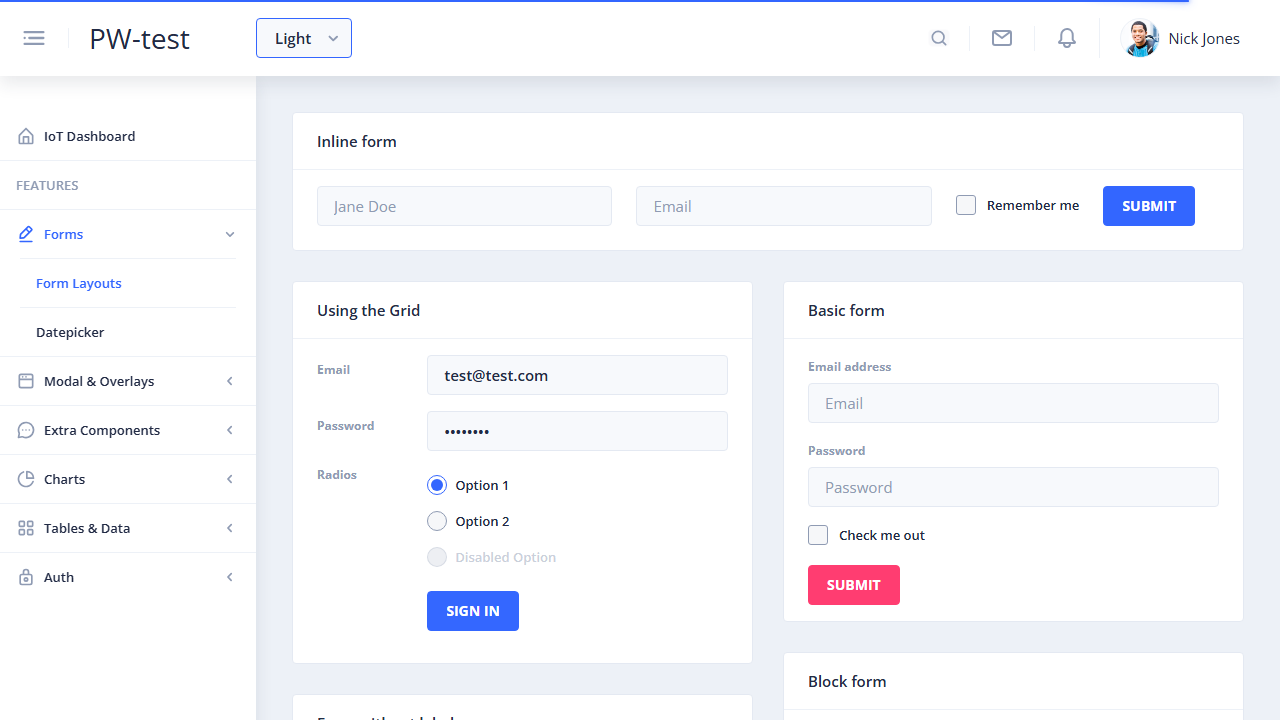
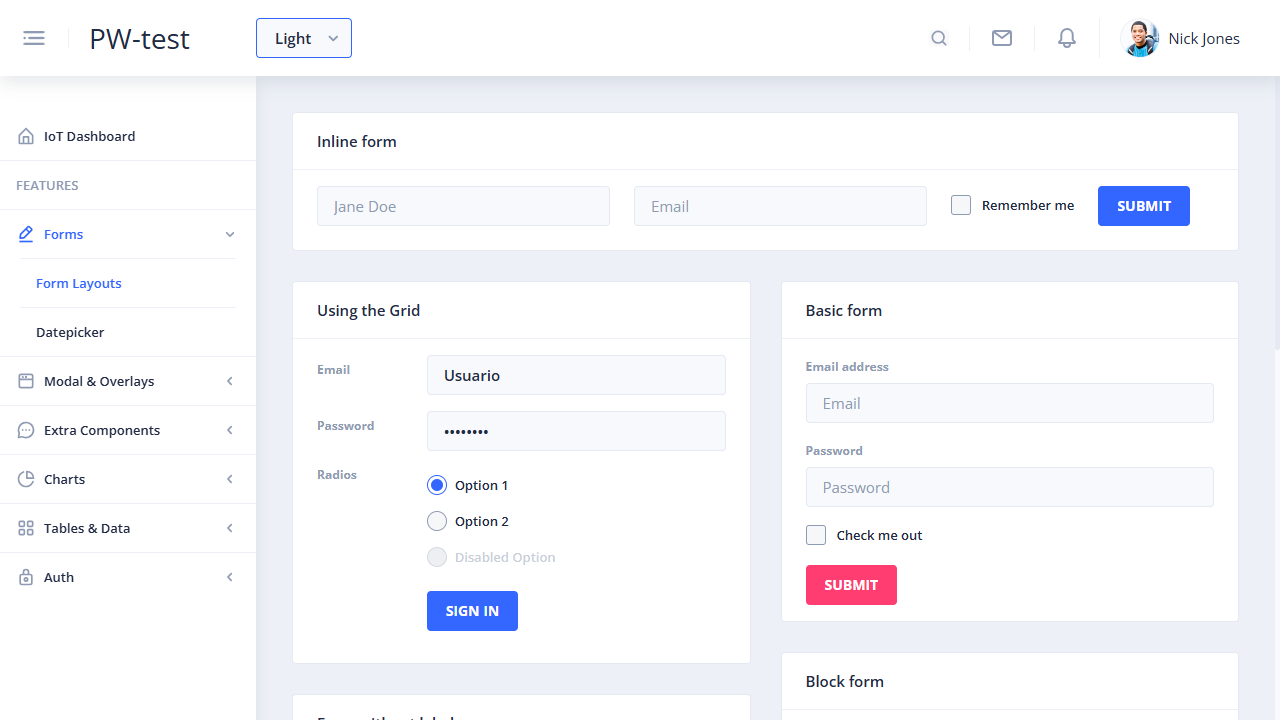
66. Evironment Variables

diff --git a/playwright.config.ts b/playwright.config.ts
@@ -1,17 +1,20 @@
 import { defineConfig, devices } from '@playwright/test';
+import type { TestOptions } from './test-options'
 
 /**
  * Read environment variables from file.
  * https://github.com/motdotla/dotenv
- */
+//  */
 // import dotenv from 'dotenv';
 // import path from 'path';
 // dotenv.config({ path: path.resolve(__dirname, '.env') });
+require('dotenv').config();
+
 
 /**
  * See https://playwright.dev/docs/test-configuration.
  */
-export default defineConfig({
+export default defineConfig<TestOptions>({
   // timeout: 10000, // 10 seconds
   // globalTimeout: 60000, // 60 seconds
 
@@ -35,6 +38,11 @@ export default defineConfig({
   use: {
     /* Base URL to use in actions like `await page.goto('')`. */
     // baseURL: 'http://localhost:3000',
+    // baseURL: 'http://localhost:4200/',   
+    globalsQaURL: 'https://www.globalsqa.com/demo-site/draganddrop/',
+    baseURL: process.env.DEV === '1' ? 'http://localhost:4200/'
+      : process.env.STAGING === '1' ? 'http://localhost:4202/'
+        : 'http://localhost:4200/',
 
     /* Collect trace when retrying the failed test. See https://playwright.dev/docs/trace-viewer */
     trace: 'on-first-retry',
@@ -51,6 +59,24 @@ export default defineConfig({
 
   /* Configure projects for major browsers */
   projects: [
+    {
+      name: 'dev',
+      use: {
+        ...devices['Desktop Chrome'],
+        baseURL: 'http://localhost:4200/',
+
+      },
+    },
+
+    {
+      name: 'staging',
+      use: {
+        ...devices['Desktop Chrome'],
+        baseURL: 'http://localhost:4202/',
+
+      },
+    },
+
     {
       name: 'chromium',
       use: { ...devices['Desktop Chrome'] },

diff --git a/tests/usePageObjects.spec.ts b/tests/usePageObjects.spec.ts
@@ -4,7 +4,8 @@ import { faker } from '@faker-js/faker'
 
 
 test.beforeEach(async ({ page }) => {
-    await page.goto('http://localhost:4200/')
+    // await page.goto('http://localhost:4200/')
+    await page.goto('/')
 })
 
 test('navigate to form page', async ({ page }) => {
@@ -28,7 +29,8 @@ test('parametrized methods', async ({ page }) => {
 
 
     await pm.navigateTo().formLayoutPage()
-    await pm.onFormLayoutsPage().submitUsingTheGridFormWithCredentialsAndSelectionOption('test@test.com', 'Welcome1', 'Option 1')
+    // await pm.onFormLayoutsPage().submitUsingTheGridFormWithCredentialsAndSelectionOption('test@test.com', 'Welcome1', 'Option 1')
+    await pm.onFormLayoutsPage().submitUsingTheGridFormWithCredentialsAndSelectionOption(process.env.USERNAME, process.env.PASSWORD, 'Option 1')
     await page.screenshot({ path: 'screenshots/formLayoutPage.png' })
     // await pm.onFormLayoutsPage().submitInlineFormNameEmailAndCheckbox('Jane Doe', 'janeDoe@test.com', false)
     const buffer = await page.screenshot()

diff --git a/tests/autoWaiting.spec.ts b/tests/autoWaiting.spec.ts
@@ -1,9 +1,10 @@
 
 import { test, expect } from '@playwright/test';
-import { time } from 'console';
+
 
 test.beforeEach(async ({ page }, testInfo) => {
-    await page.goto('http://uitestingplayground.com/ajax')
+    // await page.goto('http://uitestingplayground.com/ajax')
+    await page.goto(process.env.URL)
     await page.getByText('Button Triggering AJAX Request').click()
     testInfo.setTimeout(testInfo.timeout + 2000) // this will increase the timeout for this particular test by 2 seconds, allowing it to wait longer for the AJAX request to complete before throwing an error
 })

diff --git a/tests/dragAndDropWithiFrame.spec.ts b/tests/dragAndDropWithiFrame.spec.ts
@@ -1,7 +1,9 @@
-import { test, expect } from '@playwright/test';
+import { expect } from '@playwright/test';
+import {test} from '../test-options'
 
-test('drag and drop with iframe', async ({ page }) => {
-    await page.goto('https://www.globalsqa.com/demo-site/draganddrop/')
+test('drag and drop with iframe', async ({ page, globalsQaURL }) => {
+    // await page.goto('https://www.globalsqa.com/demo-site/draganddrop/')
+    await page.goto(globalsQaURL)
 
     const frame = page.frameLocator('[rel-title="Photo Manager"] iframe')
 

diff --git a/tests/uiComponents.spec.ts b/tests/uiComponents.spec.ts
@@ -3,7 +3,8 @@ import { expect, test } from '@playwright/test';
 test.describe.configure({mode: 'parallel'})
 
 test.beforeEach(async ({ page }) => {
-    await page.goto('http://localhost:4200/')
+    // await page.goto('http://localhost:4200/')
+    await page.goto('/')
 })
 
 test.describe('From Layouts page', async () => {

diff --git a/tests/firstTest.spec.ts b/tests/firstTest.spec.ts
@@ -1,7 +1,8 @@
 import { expect, test } from '@playwright/test';
 
 test.beforeEach(async ({ page }) => {
-    await page.goto('http://localhost:4200/')
+    // await page.goto('http://localhost:4200/')
+    await page.goto('/')
     await page.getByText('Forms').click()
     await page.getByText('Form Layouts').click()
 })

diff --git a/test-options.ts b/test-options.ts
@@ -1,0 +1,9 @@
+import { test as base } from '@playwright/test'
+
+export type TestOptions = {
+    globalsQaURL: string
+}
+
+export const test = base.extend<TestOptions>({
+    globalsQaURL: ['', { option: true }]
+})
